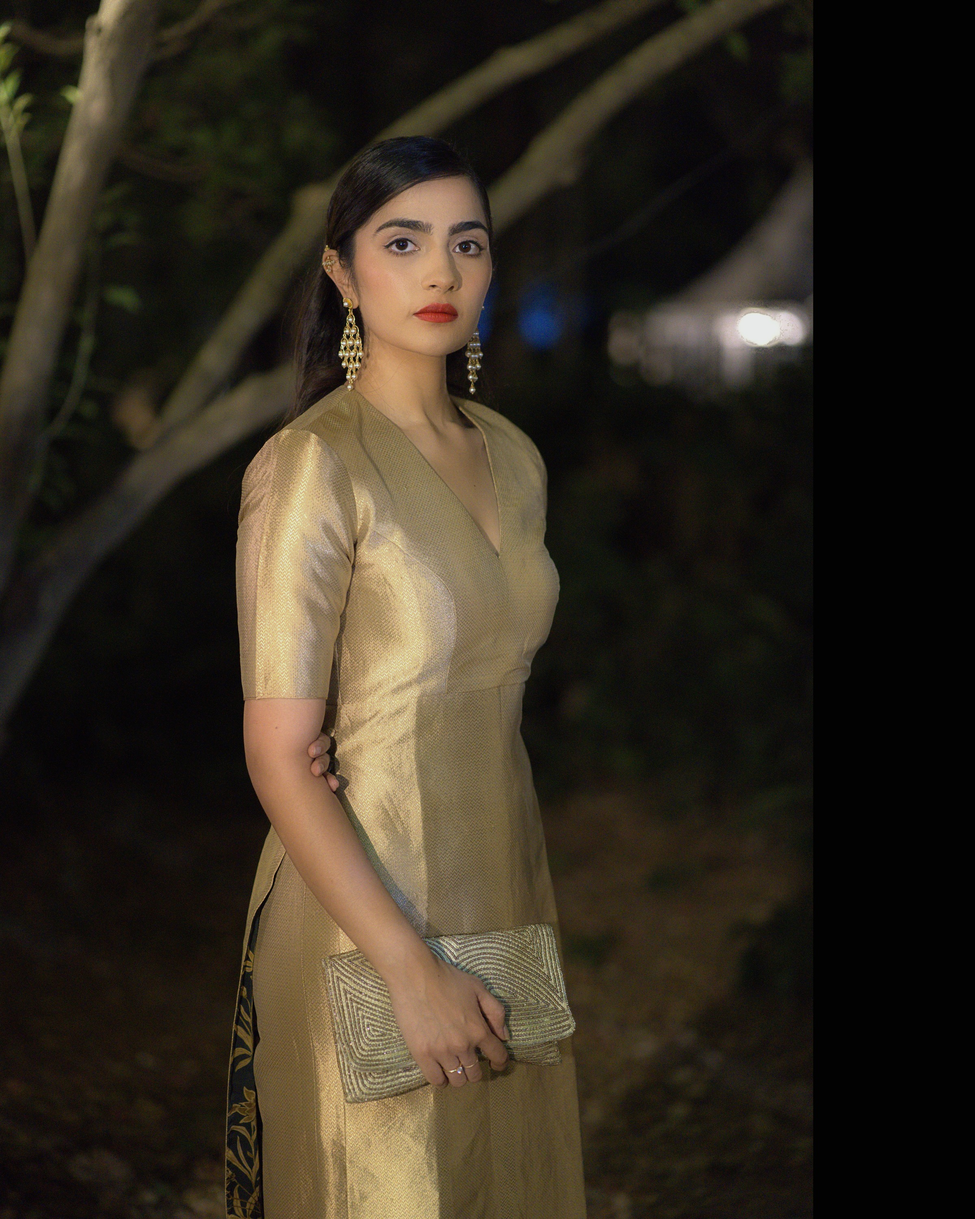
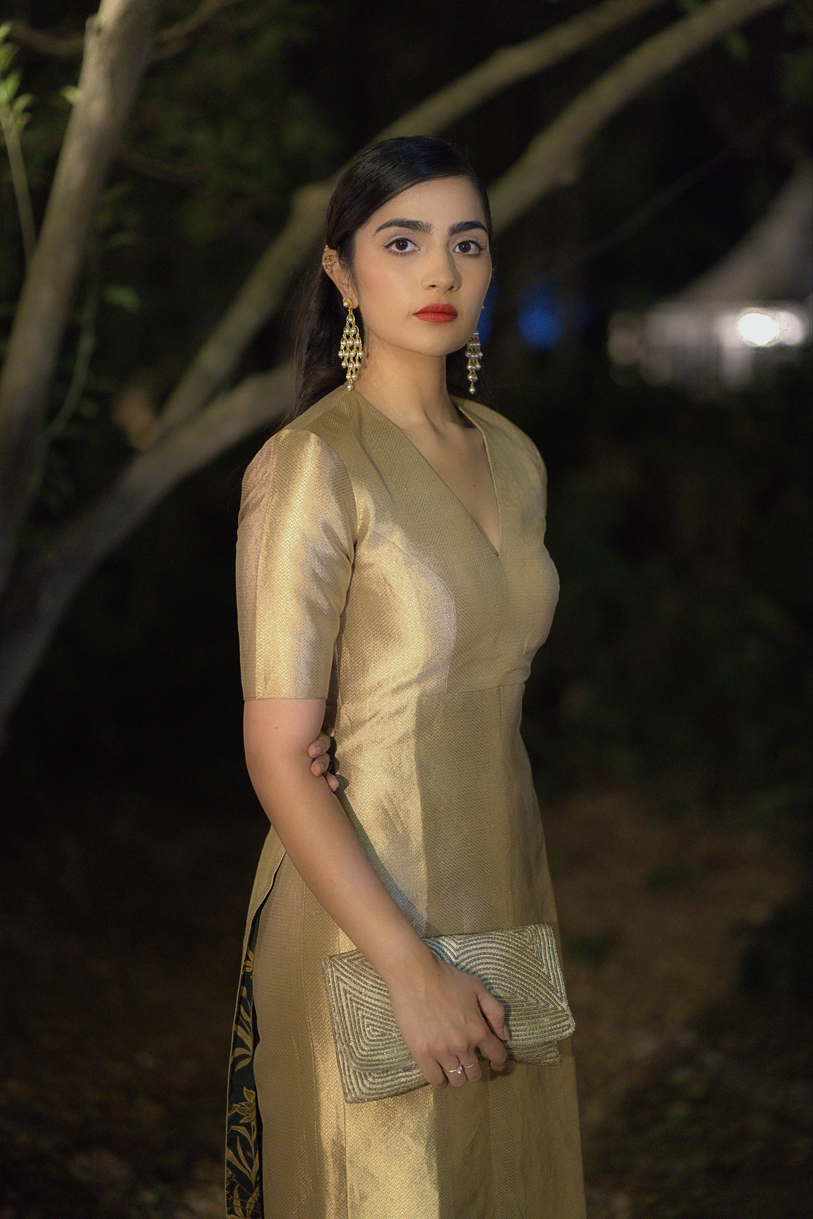
Fix 'Pick a thread' tile crops
- Weddings tile: swapped rk-04 (full-length, head cropped by the 4:5 tile)
  for rk-05 — a face-forward bridal frame that sits cleanly in the crop.
- Fashion tile: all four rukmini source files had a 398px black bar baked
  into the right edge (a 4:3 photo padded to 4:5). Auto-detected and cropped
  it off -> clean 2:3 portraits, no black strip. Fixes the tile AND the
  fashion.html gallery + share image that used the same files.
- Films & BTS tile: the soothravakyam-bts image is a 16:9 title card (cine
  lens + Malayalam title) whose text was sliced by the portrait crop.
  Replaced with the Baby Girl 'Hearts Won' poster (portrait, title reads as
  intentional), zoom disabled so nothing drifts; sublabel now names both films.

diff --git a/index.html b/index.html
@@ -428,7 +428,7 @@
           <span class="pf-cue">Explore <i>&rarr;</i></span>
         </a>
         <a class="pf" href="/weddings.html" data-tilt data-reveal>
-          <span class="pf-media"><img class="pf-frame" loading="lazy" src="assets/rithu-kevin/rk-04.jpg" alt="Wedding photography and films" /><img class="pf-frame" loading="lazy" src="assets/wedding/wed-couple.jpg" alt="" /><img class="pf-frame" loading="lazy" src="assets/jessica-leon/jl-08.jpg" alt="" /></span>
+          <span class="pf-media"><img class="pf-frame" loading="lazy" src="assets/rithu-kevin/rk-05.jpg" alt="Wedding photography and films" /><img class="pf-frame" loading="lazy" src="assets/wedding/wed-couple.jpg" alt="" /><img class="pf-frame" loading="lazy" src="assets/jessica-leon/jl-08.jpg" alt="" /></span>
           <span class="pf-grad"></span>
           <span class="pf-body"><b>Weddings</b><small>Engagement films, ceremony, couple work</small></span>
           <span class="pf-cue">Explore <i>&rarr;</i></span>
@@ -440,9 +440,9 @@
           <span class="pf-cue">Explore <i>&rarr;</i></span>
         </a>
         <a class="pf pf-solo" href="/films.html" data-tilt data-reveal>
-          <span class="pf-media"><img class="pf-frame" loading="lazy" src="assets/soothravakyam-bts.jpg" style="object-position:50% 45%" alt="Soothravakyam on-set still" /></span>
+          <span class="pf-media"><img class="pf-frame" loading="lazy" src="assets/babygirl/babygirl-hearts.jpg" style="animation:none;object-position:50% 46%" alt="Baby Girl — Malayalam feature poster" /></span>
           <span class="pf-grad"></span>
-          <span class="pf-body"><b>Films &amp; BTS</b><small>On-set stills for Malayalam cinema</small></span>
+          <span class="pf-body"><b>Films &amp; BTS</b><small>Malayalam cinema — Soothravakyam &amp; Baby Girl</small></span>
           <span class="pf-cue">Explore <i>&rarr;</i></span>
         </a>
         <a class="pf" href="/marriott.html" data-tilt data-reveal>
